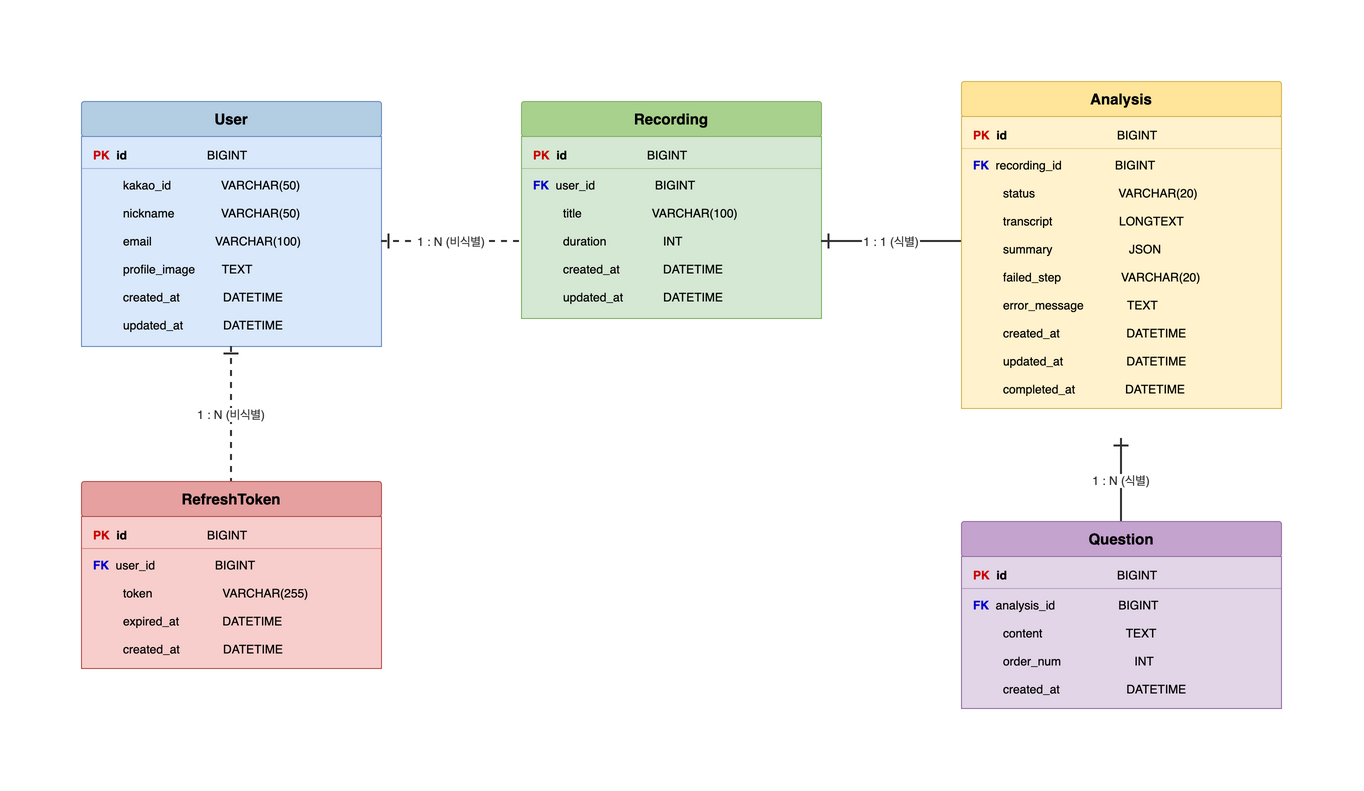
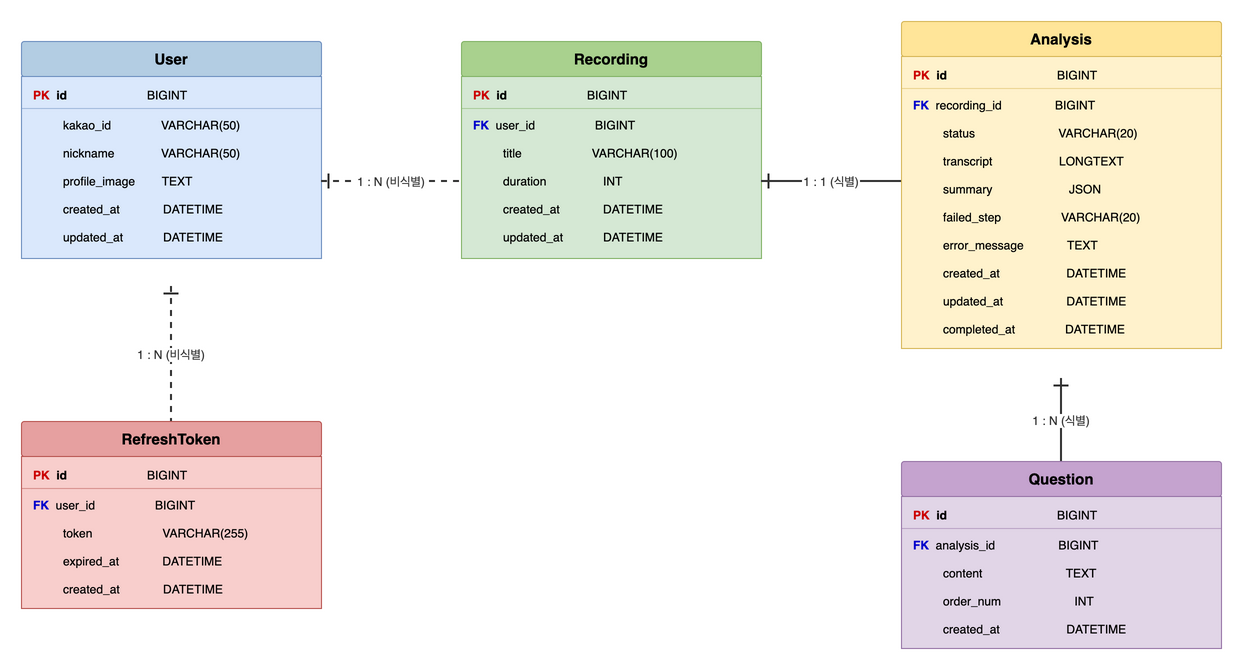
[#90] User email 필드 제거 + 로그인 API 인가 코드 방식 변경 (#91)
* docs: User email 필드 제거 + 로그인 API 인가 코드 방식 변경

* refactor: User email 필드 제거

* fix: FE CI Node.js 버전 고정 (22.19.0)

* fix: FE CI npm 버전 불일치 해결

* fix: FE CI package-lock.json 동기화

diff --git a/client/src/stores/authStore.ts b/client/src/stores/authStore.ts
@@ -3,7 +3,6 @@ import { create } from 'zustand';
 export interface User {
   id: number;
   nickname: string;
-  email: string;
   profileImage: string;
 }
 

diff --git a/server/src/main/java/com/lectureq/server/user/entity/User.java b/server/src/main/java/com/lectureq/server/user/entity/User.java
@@ -23,17 +23,13 @@ public class User extends BaseEntity {
     @Column(length = 50)
     private String nickname;
 
-    @Column(length = 100)
-    private String email;
-
     @Column(columnDefinition = "TEXT")
     private String profileImage;
 
     @Builder
-    public User(String kakaoId, String nickname, String email, String profileImage) {
+    public User(String kakaoId, String nickname, String profileImage) {
         this.kakaoId = kakaoId;
         this.nickname = nickname;
-        this.email = email;
         this.profileImage = profileImage;
     }
 }

diff --git a/docs/03. API 설계.md b/docs/03. API 설계.md
@@ -39,12 +39,12 @@
 
 ### POST /auth/login
 
-카카오에서 받은 Access Token으로 로그인합니다. 첫 로그인 시 자동 회원가입됩니다. (FR-03)
+카카오 인가 코드로 로그인합니다. 서버가 인가 코드로 카카오 토큰을 발급받고 사용자 정보를 조회합니다. 첫 로그인 시 자동 회원가입됩니다. (FR-03)
 
 - **Request Body**
 ```json
 {
-  "kakaoAccessToken": "카카오 Access Token"
+  "code": "카카오 인가 코드"
 }
 ```
 
@@ -57,7 +57,6 @@
     "user": {
       "id": 1,
       "nickname": "홍길동",
-      "email": "hong@kakao.com",
       "profileImage": "https://..."
     }
   }
@@ -70,7 +69,7 @@
 
 | 상태 코드 | 상황 | 응답 메시지 |
 |----------|------|-----------|
-| 401 | 카카오 토큰 유효하지 않음 | "카카오 토큰이 유효하지 않습니다." |
+| 401 | 카카오 인가 코드 유효하지 않음 | "카카오 인가 코드가 유효하지 않습니다." |
 
 ### POST /auth/refresh
 
@@ -463,7 +462,6 @@ STT 변환 텍스트를 조회합니다. (FR-02)
   "data": {
     "id": 1,
     "nickname": "홍길동",
-    "email": "hong@kakao.com",
     "profileImage": "https://..."
   }
 }

diff --git a/docs/04. DB 설계.md b/docs/04. DB 설계.md
@@ -11,7 +11,6 @@
 | id | BIGINT | PK, AUTO_INCREMENT | 사용자 고유 ID |
 | kakao_id | VARCHAR(50) | UNIQUE, NOT NULL | 카카오 고유 식별자 |
 | nickname | VARCHAR(50) | | 카카오 닉네임 |
-| email | VARCHAR(100) | | 카카오 이메일 |
 | profile_image | TEXT | | 카카오 프로필 이미지 URL |
 | created_at | DATETIME | NOT NULL | 가입일시 |
 | updated_at | DATETIME | NOT NULL | 수정일시 |
